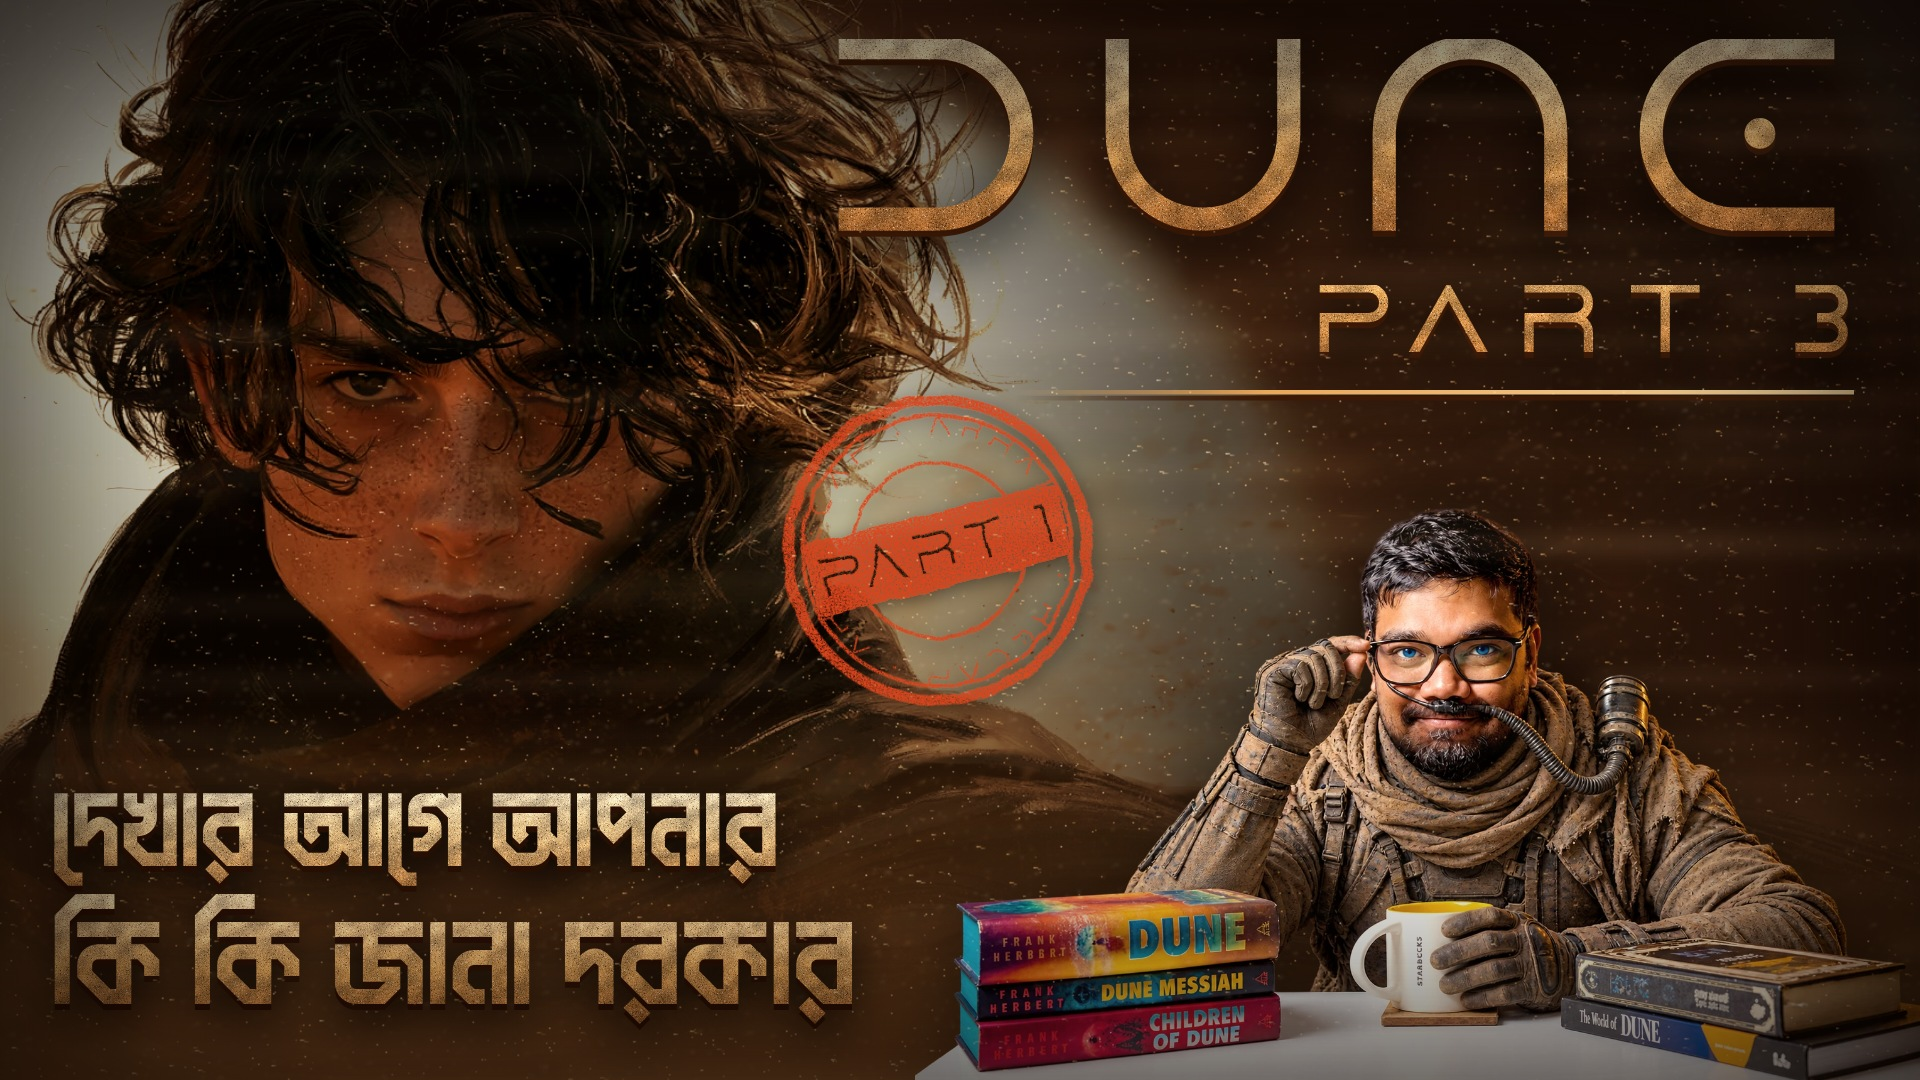
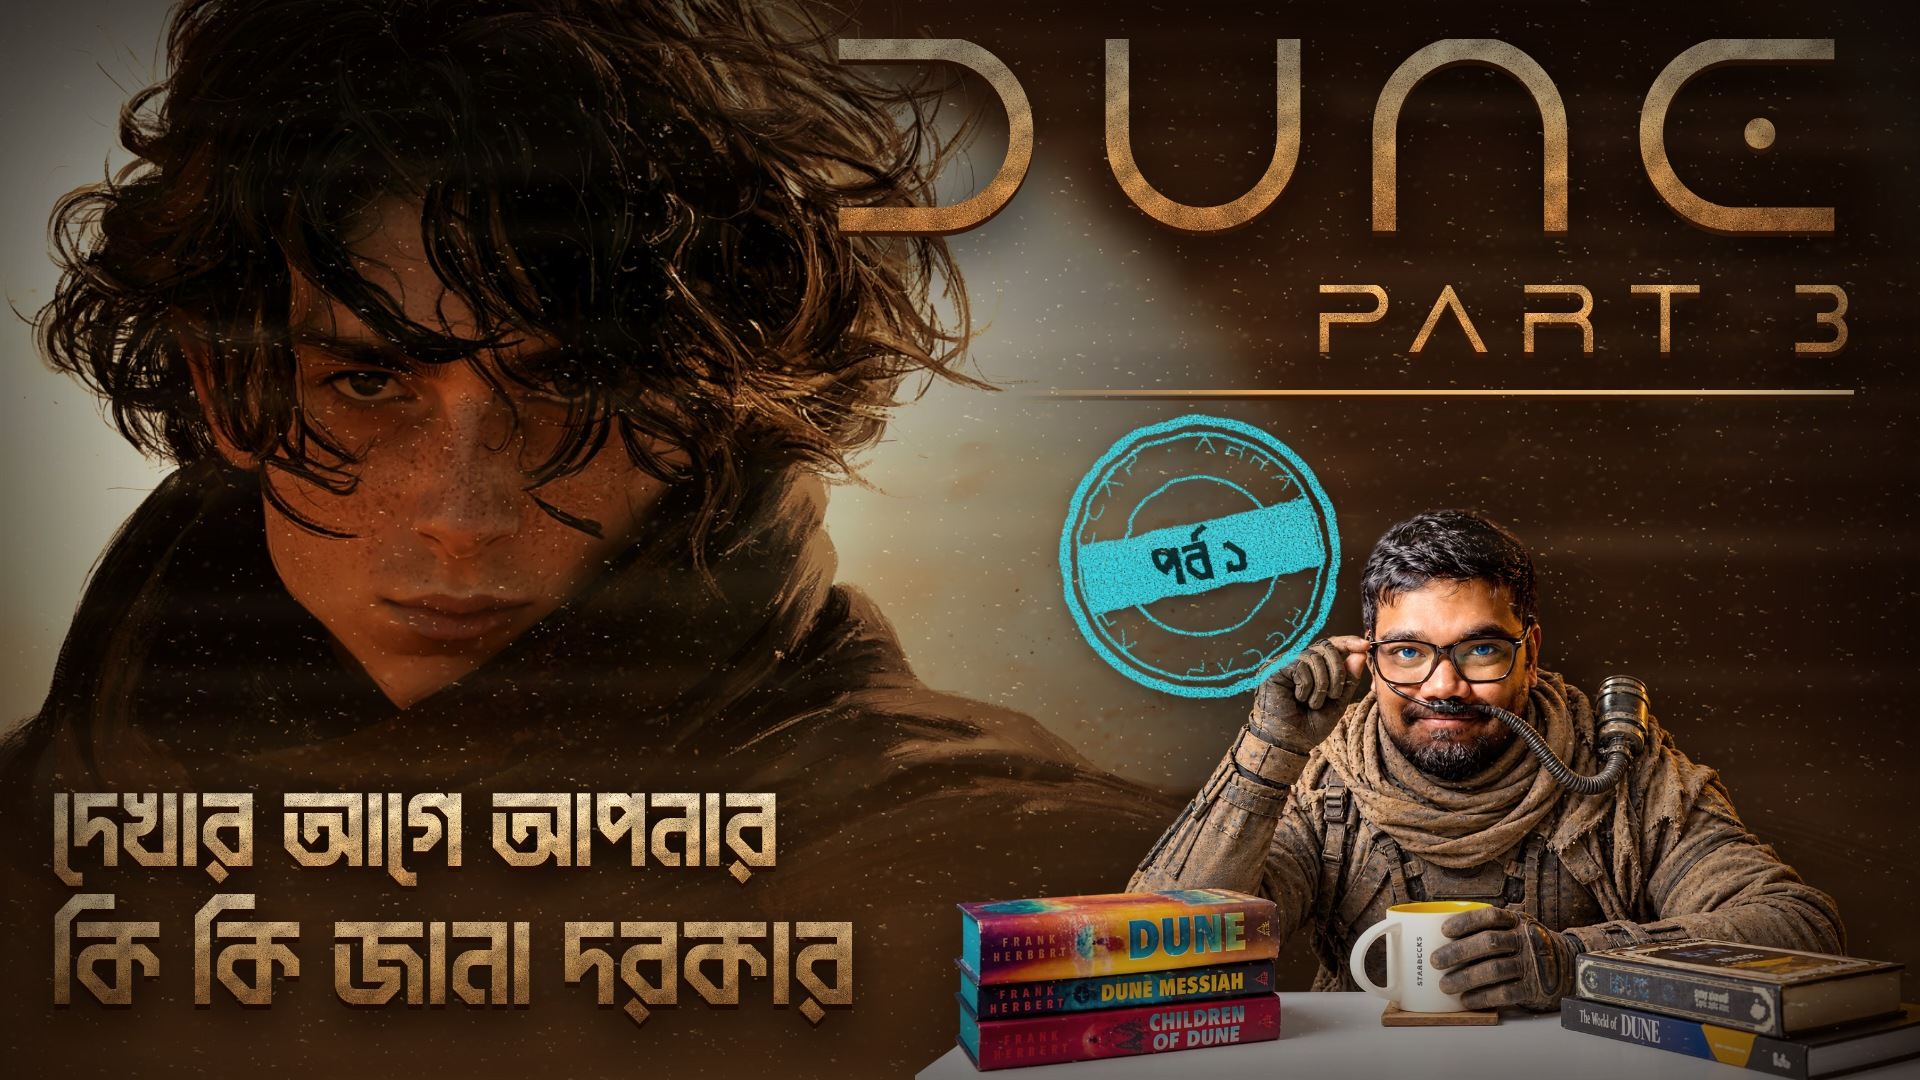
Thumbnail: change stamp to পর্ব ১ in cyan, move it beside the head
Claude-Session: https://claude.ai/code/session_0199UBB8gc7Qm7gLSMgZnrMy

Changed region(s): [[0.4062, 0.3667, 0.7188, 0.6722]]

diff --git a/thumbnails/dune-part3/thumb.html b/thumbnails/dune-part3/thumb.html
@@ -34,7 +34,7 @@ html,body{width:1280px;height:720px;overflow:hidden;background:#1a0d05}
 #bn .l1{font-size:78px;background-image:url(sand_bn.png)}
 #bn .l2{font-size:88px;background-image:url(sand_title.png);background-position:0 40%}
 /* stamp */
-#stamp{left:520px;top:262px;transform:rotate(-14deg);filter:url(#grunge) drop-shadow(0 3px 6px rgba(0,0,0,.6));mix-blend-mode:normal}
+#stamp{left:705px;top:276px;transform:rotate(-12deg);filter:url(#grunge) drop-shadow(0 3px 6px rgba(0,0,0,.6));mix-blend-mode:normal}
 </style></head><body>
 <svg width="0" height="0" style="position:absolute">
   <filter id="grunge" x="-10%" y="-10%" width="120%" height="120%">
@@ -65,18 +65,18 @@ html,body{width:1280px;height:720px;overflow:hidden;background:#1a0d05}
     <div class="l2 sand">কি কি জানা দরকার</div>
   </div>
 
-  <svg id="stamp" class="abs" width="210" height="210" viewBox="0 0 210 210">
+  <svg id="stamp" class="abs" width="190" height="190" viewBox="0 0 210 210">
     <defs><path id="ring" d="M105,105 m-78,0 a78,78 0 1,1 156,0 a78,78 0 1,1 -156,0"/></defs>
-    <g fill="none" stroke="#d9441e" >
+    <g fill="none" stroke="#33d6e6" >
       <circle cx="105" cy="105" r="100" stroke-width="7"/>
       <circle cx="105" cy="105" r="90" stroke-width="2.5"/>
       <circle cx="105" cy="105" r="58" stroke-width="2.5"/>
     </g>
-    <text fill="#d9441e" font-family="DuneRise" font-size="15" letter-spacing="5">
+    <text fill="#33d6e6" font-family="DuneRise" font-size="15" letter-spacing="5">
       <textPath href="#ring" startOffset="0">RECAP · ARRAKIS · RECAP · ARRAKIS ·</textPath>
     </text>
-    <rect x="18" y="80" width="174" height="50" fill="#d9441e"/>
-    <text x="105" y="117" text-anchor="middle" fill="#2a0f04" font-family="DuneRise" font-size="31" letter-spacing="3">PART 1</text>
+    <rect x="18" y="80" width="174" height="50" fill="#33d6e6"/>
+    <text x="105" y="122" text-anchor="middle" fill="#06262b" font-family="Dabanol" font-size="44">পর্ব ১</text>
   </svg>
 
   <div id="overlay" class="abs"></div>
